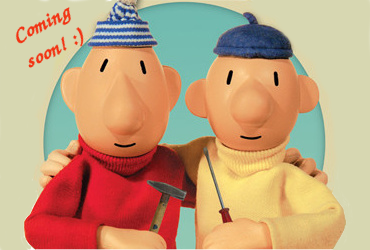
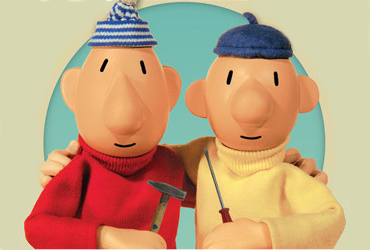
Front page

Changed region(s): [[0.0595, 0.112, 0.2378, 0.28], [0.0297, 0.028, 0.2081, 0.168], [0.0595, 0.98, 0.0892, 1.0]]

diff --git a/index.html b/index.html
@@ -1,12 +1,17 @@
 <!DOCTYPE html>
   <head>
     <title> Portfolio </title>
+    <link rel="stylesheet" href="style.css">
   </head>
   
   <body>
-    <h2> Portfolio </h2>
-    <p> Just checking what this can do. </p>
-    <p> Powered by Sublime 3 </p>
+  	<div class="container">
+    	<img class="coming-soon" src="img/soon.png">
+    </div>
+    <div class="button-front">
+        <button> Coming soon! </button>
+    </div>
+
     <script> </script>
   </body>
 </html>

diff --git a/style.css b/style.css
@@ -1,4 +1,28 @@
-.coming-soon {
+body {
+	width: 100%;
+}
+
+.container {
 	display: flex;
-	
+	flex-wrap: wrap;
+	justify-content: center;
+	margin-top: 6rem;
+	width: 100%;
+
+}
+
+.container img {
+	border: 3px solid black;
+}
+
+.button-front {
+	display: flex;
+	flex-wrap: wrap;
+	justify-content: center;
+	margin-top: 3rem;
+	width: 100%;
+}
+
+.button-front button {
+		background-color: transparent;
 }
